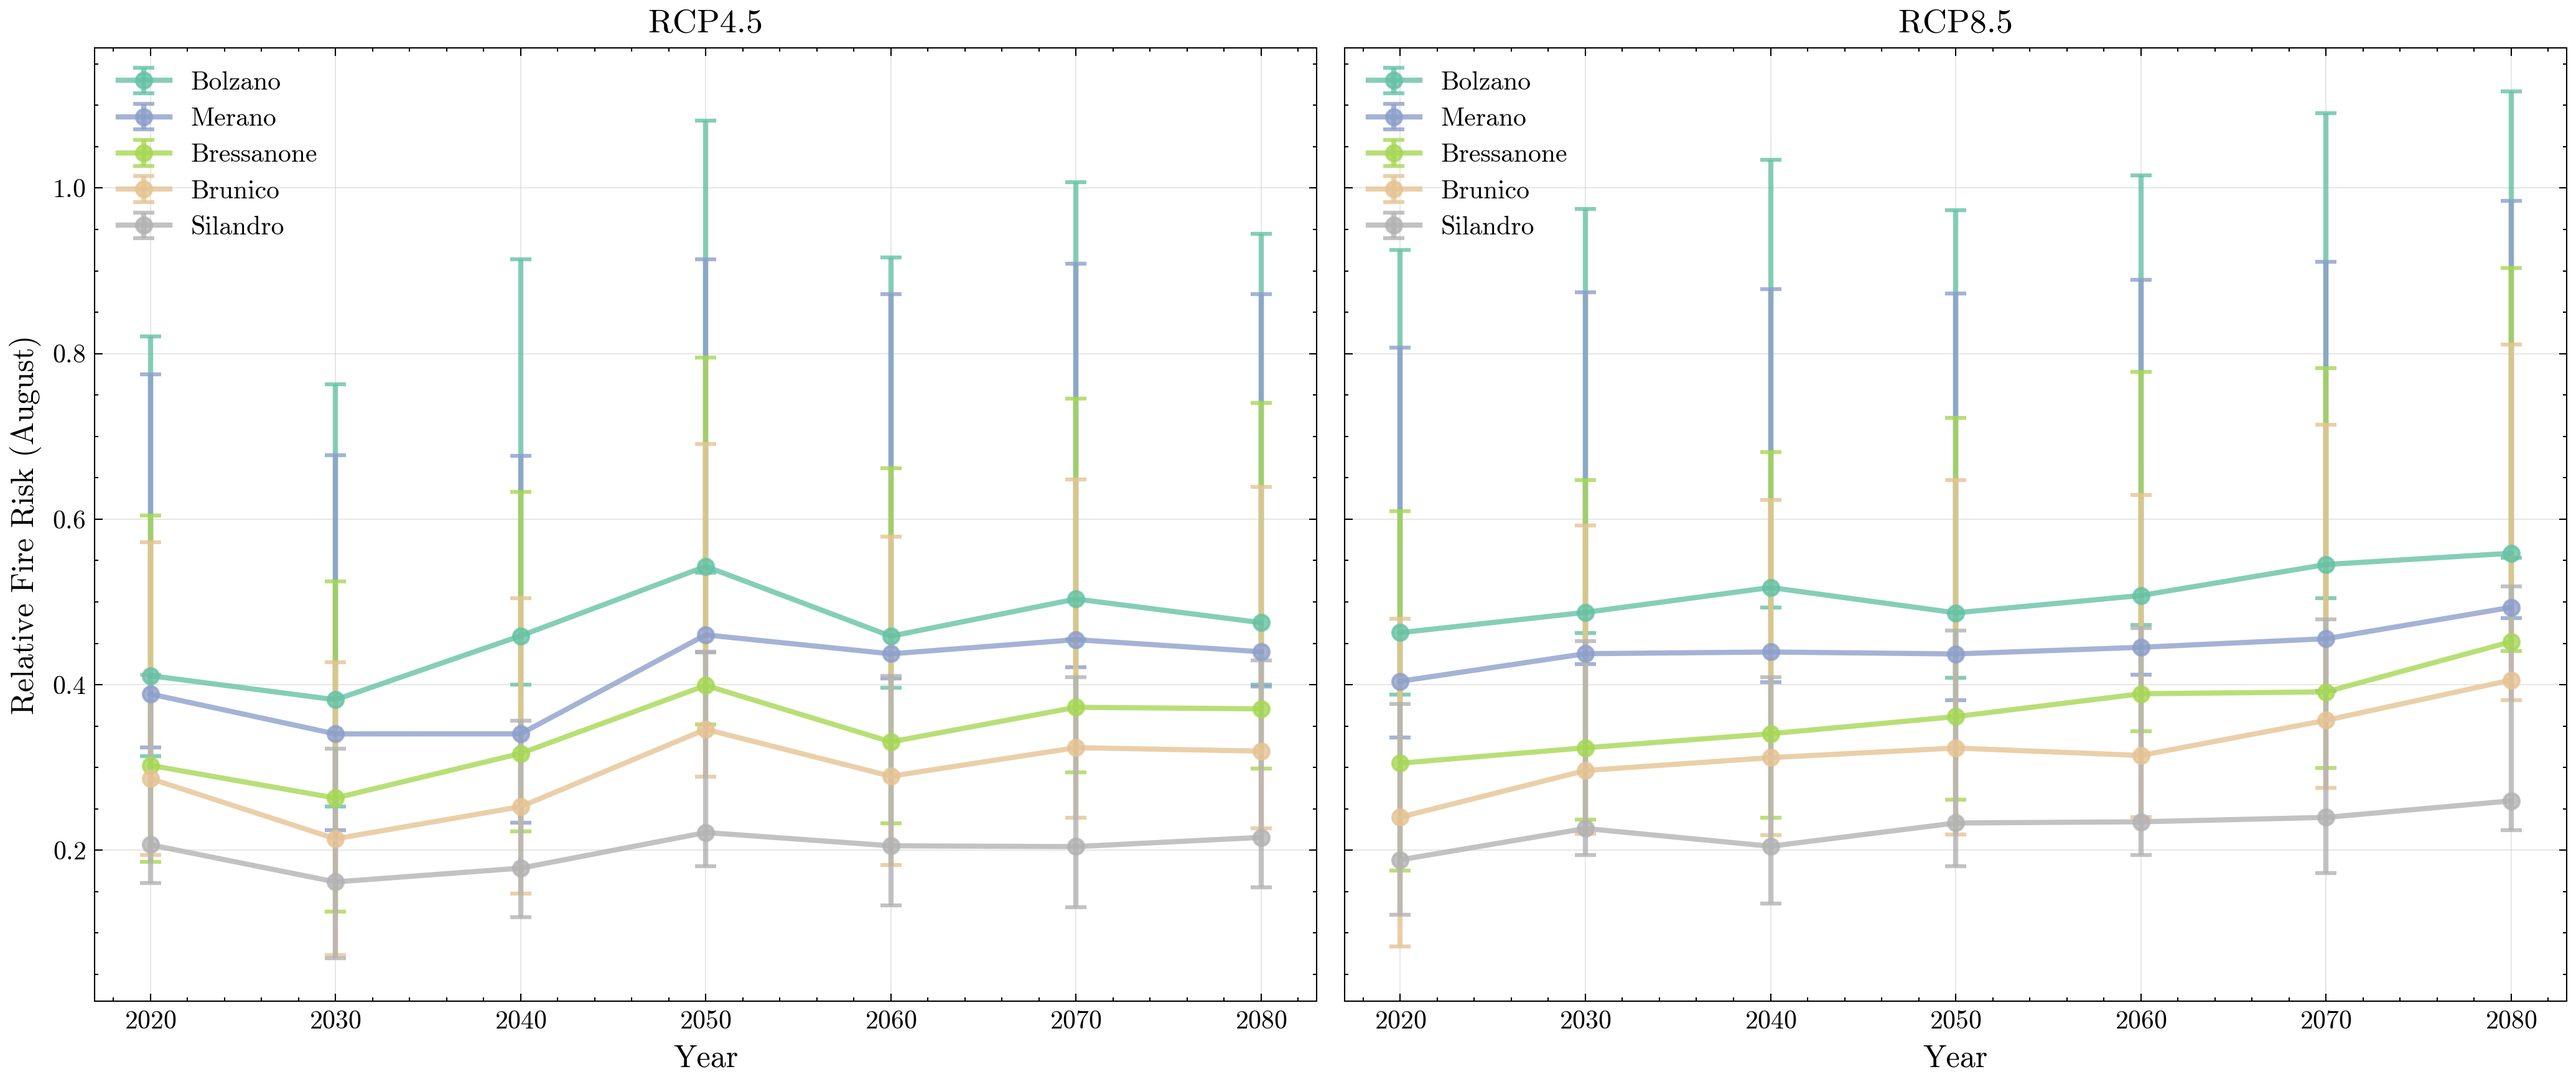
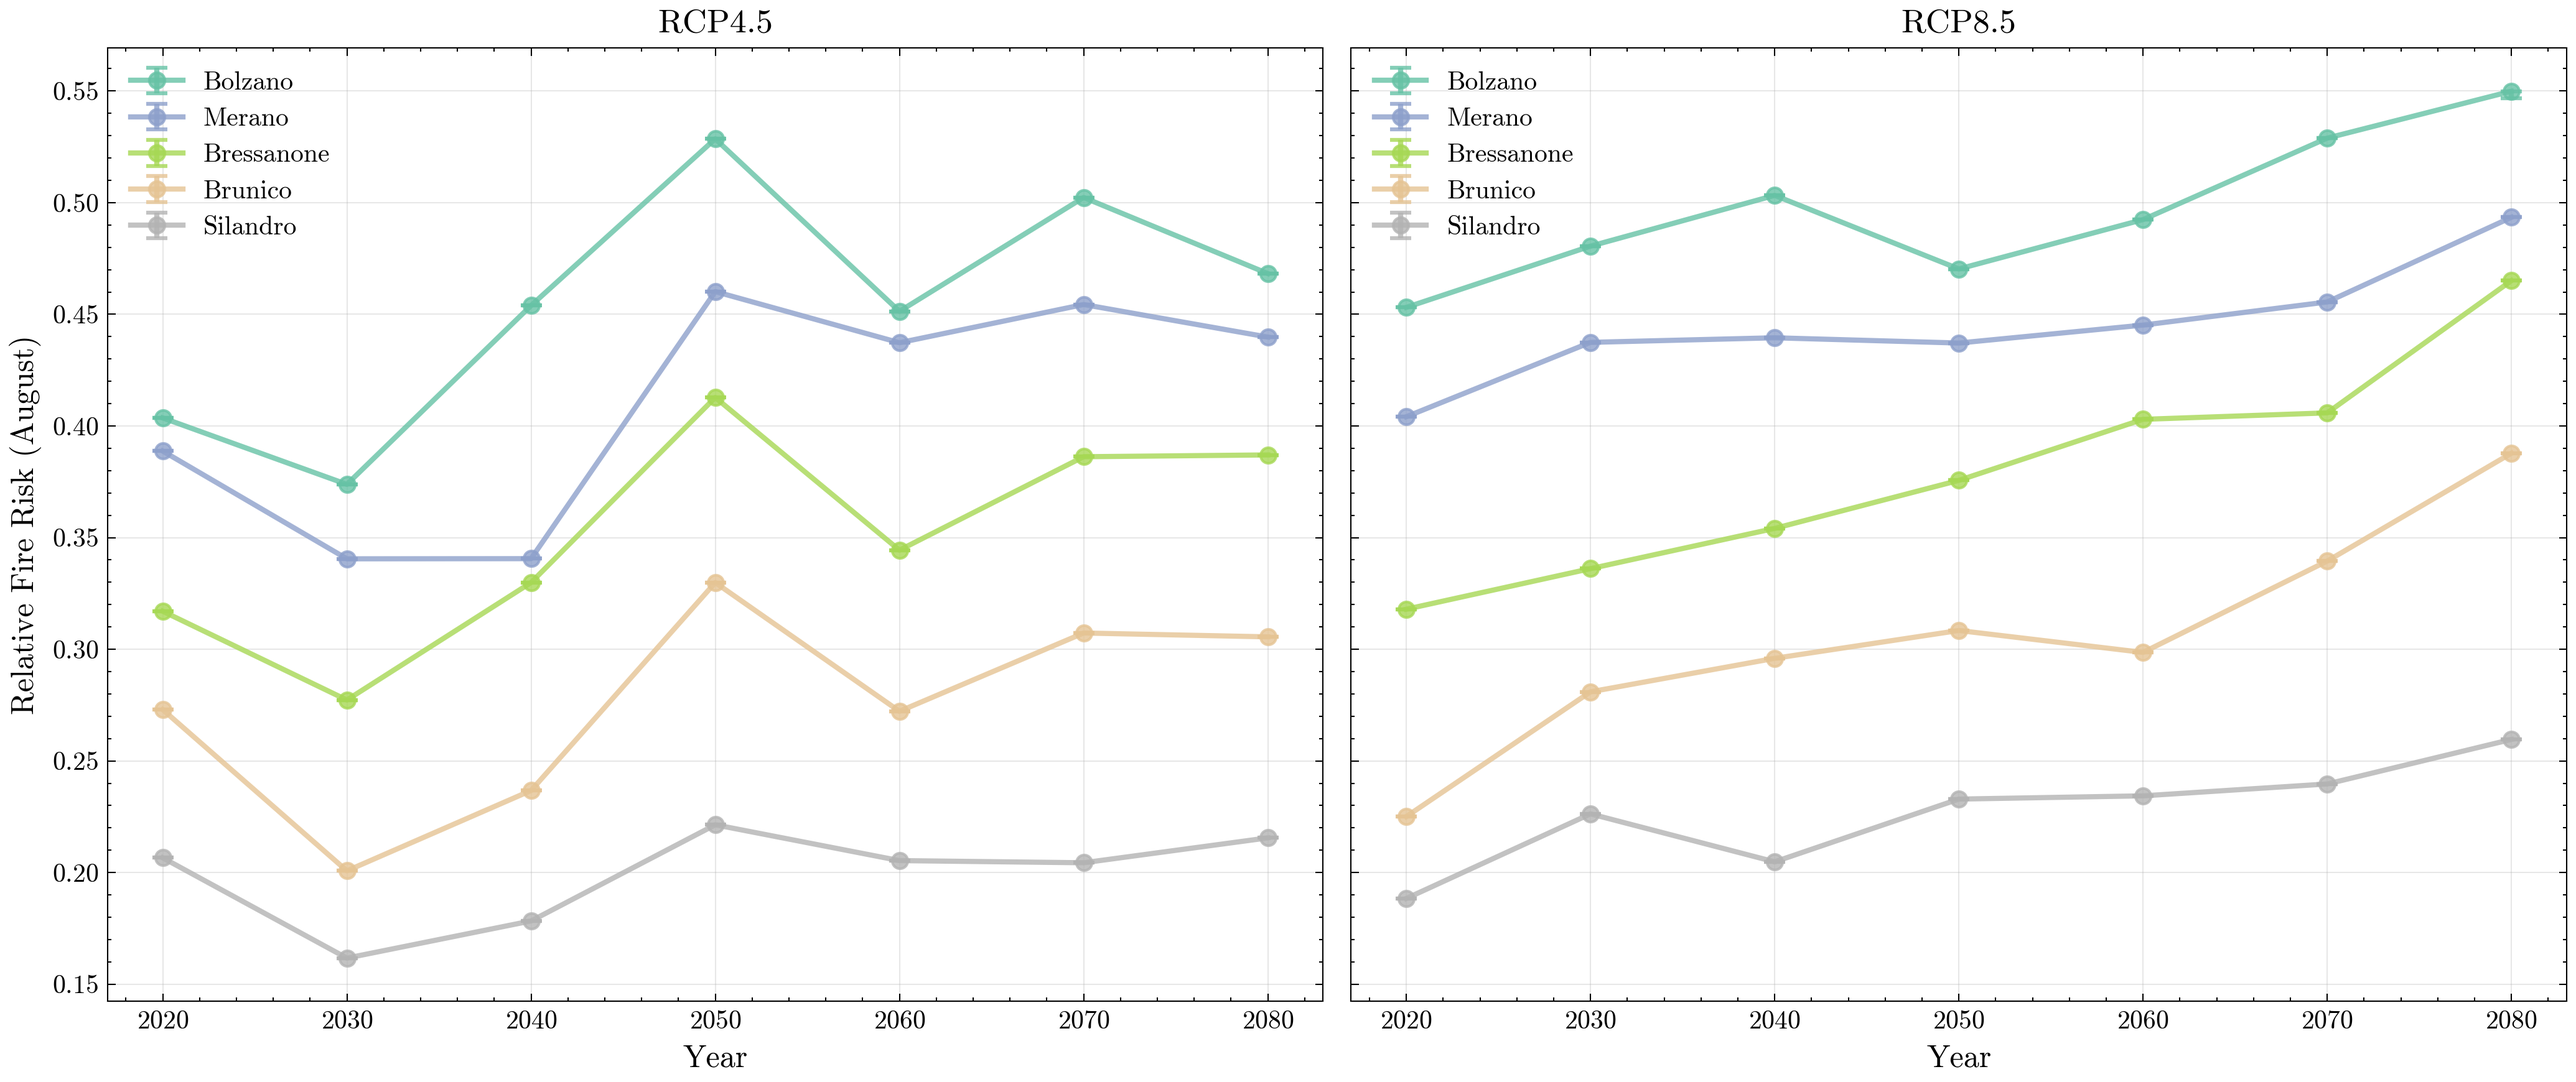
Fix percentage calculations and error bar alignment
FIXED ISSUES:
1. Percentage change calculation - now aggregates multiple records per zone/year
   - Was picking first record only, causing inflated percentages
   - Now uses mean across all records per zone

2. Error bar alignment - properly centers on median values
   - Fixed calculation: lower_err = median - pctl25, upper_err = pctl99 - median
   - Aggregates multiple records per year before calculating error bars

CORRECTED STATISTICS:
RCP4.5 (2020→2080):
  - Median: +14.4% (was +15%)
  - Range: -10% to +43% (was -36% to +139%)
  - Max increase: Valas (+43%)

RCP8.5 (2020→2080):
  - Median: +43.2% (was +45%)
  - Range: +13% to +116% (was -26% to +176%)
  - Max increase: San Giovanni Vizze (+116%)

Updated manuscript captions with correct values.

diff --git a/04_Zone_Climate_Projections/create_publication_maps_and_plots.py b/04_Zone_Climate_Projections/create_publication_maps_and_plots.py
@@ -121,9 +121,12 @@ for i, scenario in enumerate(SCENARIOS):
     for j, year in enumerate(TIME_PERIODS):
         ax = axes[i, j]
 
-        # Get data for this scenario and year
+        # Get data for this scenario and year, aggregate by zone
         df_subset = df_maps[(df_maps['scenario'] == scenario) &
                            (df_maps['year'] == year)]
+
+        # Aggregate by zone (average if multiple records)
+        df_subset = df_subset.groupby('zone_name')['mean_risk'].mean().reset_index()
 
         # Merge with spatial data
         zones_plot = zones_gdf.copy()
@@ -204,22 +207,32 @@ for idx, scenario in enumerate(['RCP4.5', 'RCP8.5']):
             # Get uncertainty from different climate quantiles
             years = []
             mean_risk = []
-            lower_err = []
-            upper_err = []
+            lower_bound = []
+            upper_bound = []
 
             for year in sorted(df_zone['year'].unique()):
                 df_year = df_zone[df_zone['year'] == year]
 
-                pctl25 = df_year[df_year['climate_quantile'] == 'pctl25']['mean_risk'].values
-                pctl50 = df_year[df_year['climate_quantile'] == 'pctl50']['mean_risk'].values
-                pctl99 = df_year[df_year['climate_quantile'] == 'pctl99']['mean_risk'].values
+                # Get values and take mean if multiple records per year
+                pctl25_vals = df_year[df_year['climate_quantile'] == 'pctl25']['mean_risk'].values
+                pctl50_vals = df_year[df_year['climate_quantile'] == 'pctl50']['mean_risk'].values
+                pctl99_vals = df_year[df_year['climate_quantile'] == 'pctl99']['mean_risk'].values
 
-                if len(pctl50) > 0:
+                if len(pctl50_vals) > 0:
+                    pctl25 = pctl25_vals.mean() if len(pctl25_vals) > 0 else pctl50_vals.mean()
+                    pctl50 = pctl50_vals.mean()
+                    pctl99 = pctl99_vals.mean() if len(pctl99_vals) > 0 else pctl50_vals.mean()
+
                     years.append(year)
-                    mean_risk.append(pctl50[0])
-                    # Ensure error bars are always positive
-                    lower_err.append(abs(pctl50[0] - (pctl25[0] if len(pctl25) > 0 else pctl50[0])))
-                    upper_err.append(abs((pctl99[0] if len(pctl99) > 0 else pctl50[0]) - pctl50[0]))
+                    mean_risk.append(pctl50)
+                    lower_bound.append(pctl25)
+                    upper_bound.append(pctl99)
+
+            # Calculate error bars as distance from median
+            # yerr expects: [[lower_errors], [upper_errors]]
+            # where lower_errors = median - lower_bound, upper_errors = upper_bound - median
+            lower_err = [max(0, m - l) for m, l in zip(mean_risk, lower_bound)]
+            upper_err = [max(0, u - m) for u, m in zip(upper_bound, mean_risk)]
 
             # Plot with error bars
             ax.errorbar(
@@ -256,10 +269,11 @@ print("Creating risk change quantification...")
 # Calculate change from 2020 to 2080
 df_change = df[(df['month'] == 8) & (df['climate_quantile'] == 'pctl50')]
 
-df_2020 = df_change[df_change['year'] == 2020][['zone_name', 'scenario', 'mean_risk']]
+# Aggregate by zone (average across any sub-zones or districts)
+df_2020 = df_change[df_change['year'] == 2020].groupby(['zone_name', 'scenario'])['mean_risk'].mean().reset_index()
 df_2020.columns = ['zone_name', 'scenario', 'risk_2020']
 
-df_2080 = df_change[df_change['year'] == 2080][['zone_name', 'scenario', 'mean_risk']]
+df_2080 = df_change[df_change['year'] == 2080].groupby(['zone_name', 'scenario'])['mean_risk'].mean().reset_index()
 df_2080.columns = ['zone_name', 'scenario', 'risk_2080']
 
 df_delta = df_2020.merge(df_2080, on=['zone_name', 'scenario'])

diff --git a/WRITEUP/main_updated.tex b/WRITEUP/main_updated.tex
@@ -322,7 +322,7 @@ Figure \ref{fig:climate_timeseries} quantifies risk evolution for key zones with
 \begin{figure}[H]
 \centering
 \includegraphics[width=0.95\textwidth]{../output/figures/climate_timeseries_with_uncertainty.png}
-\caption{Projected fire risk evolution (August) for major zones under RCP4.5 (left) and RCP8.5 (right) scenarios. Points show median climate model projection, error bars represent uncertainty range from 25th to 99th percentile climate outcomes. Each zone shown in different color with full legend. RCP8.5 projects substantially higher risk increases than RCP4.5, with median increases of 49\% vs 17\% by 2080.}
+\caption{Projected fire risk evolution (August) for major zones under RCP4.5 (left) and RCP8.5 (right) scenarios. Points show median climate model projection, error bars represent uncertainty range from 25th to 99th percentile climate outcomes. Each zone shown in different color with full legend. Error bars properly centered on median values. RCP8.5 projects substantially higher risk increases than RCP4.5, with median increases of 43\% vs 14\% by 2080.}
 \label{fig:climate_timeseries}
 \end{figure}
 
@@ -331,7 +331,7 @@ Figure \ref{fig:climate_change} maps the magnitude of projected risk change from
 \begin{figure}[H]
 \centering
 \includegraphics[width=0.95\textwidth]{../output/figures/climate_maps_risk_change.png}
-\caption{Percent change in fire risk from 2020 to 2080 under RCP4.5 (left) and RCP8.5 (right) scenarios. Color scale shows percentage increase (red) or decrease (blue). Under RCP4.5, the median zone experiences 15\% increase with range from -36\% to +139\%. Under RCP8.5, median increase is 45\% with range from -26\% to +176\%. Highest increases projected for central mountain zones (Roncadizza, Merano area).}
+\caption{Percent change in fire risk from 2020 to 2080 under RCP4.5 (left) and RCP8.5 (right) scenarios. Color scale shows percentage increase (red) or decrease (blue). Under RCP4.5, the median zone experiences 14\% increase with range from -10\% to +43\%. Under RCP8.5, median increase is 43\% with range from +13\% to +116\%. Highest increases projected for mountain zones in northern areas (San Giovanni Vizze: +116\% under RCP8.5).}
 \label{fig:climate_change}
 \end{figure}
 
